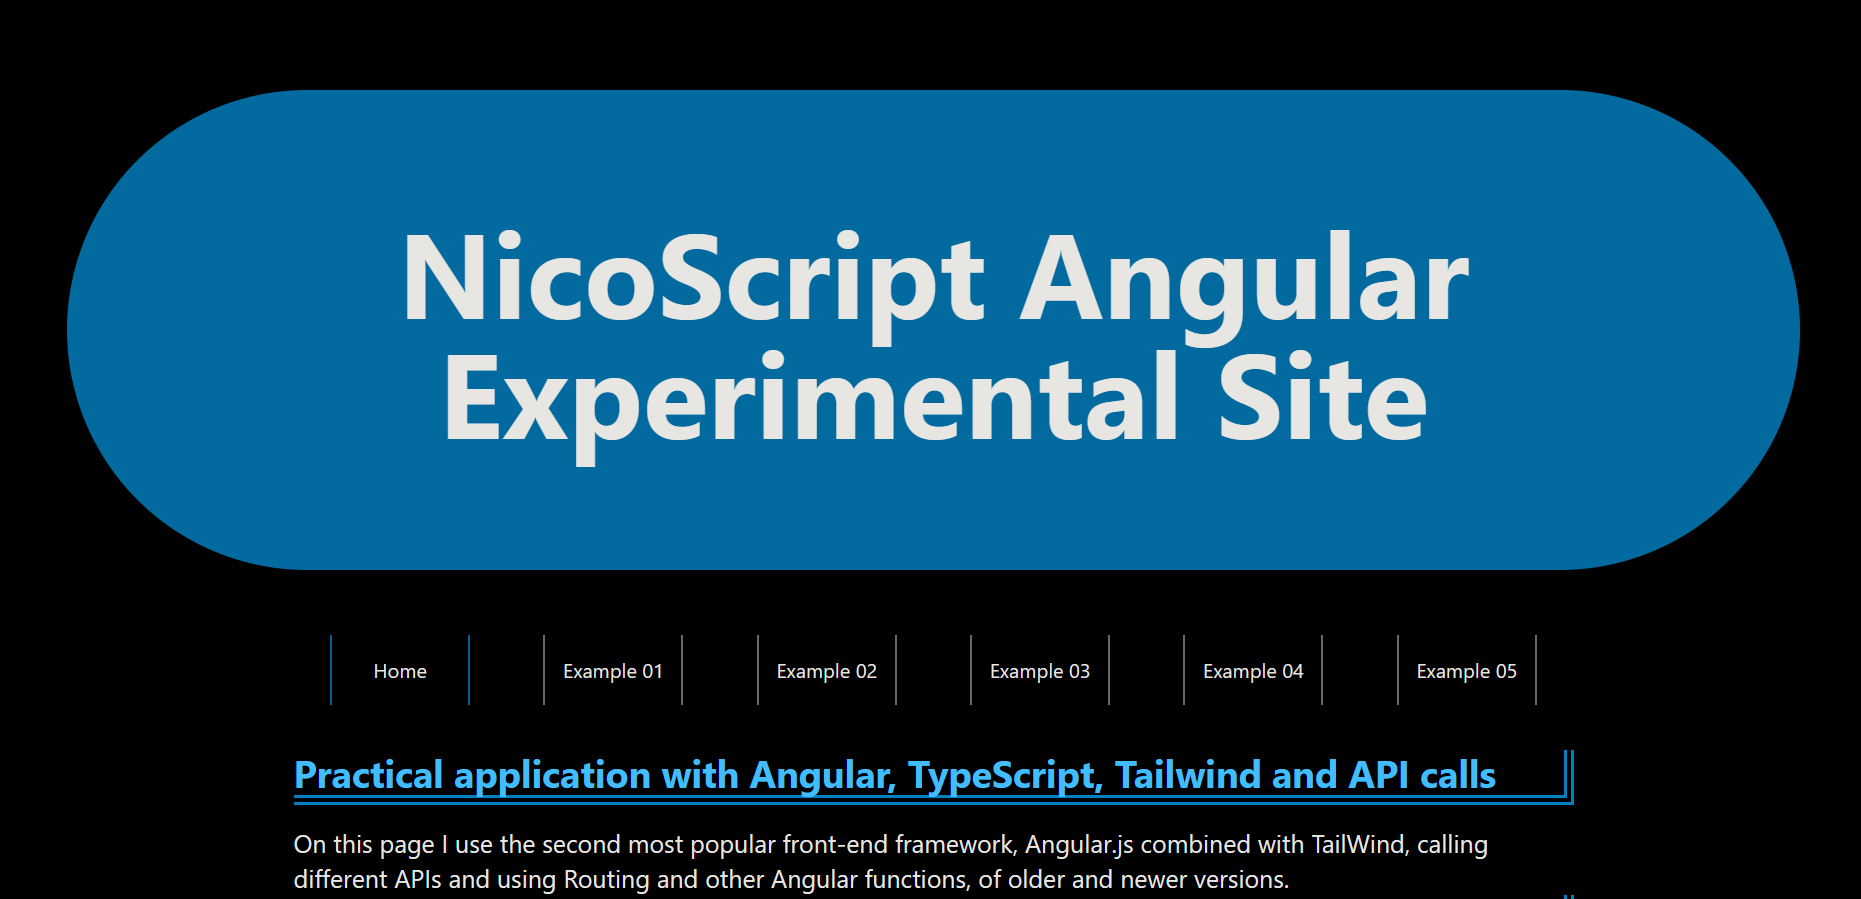
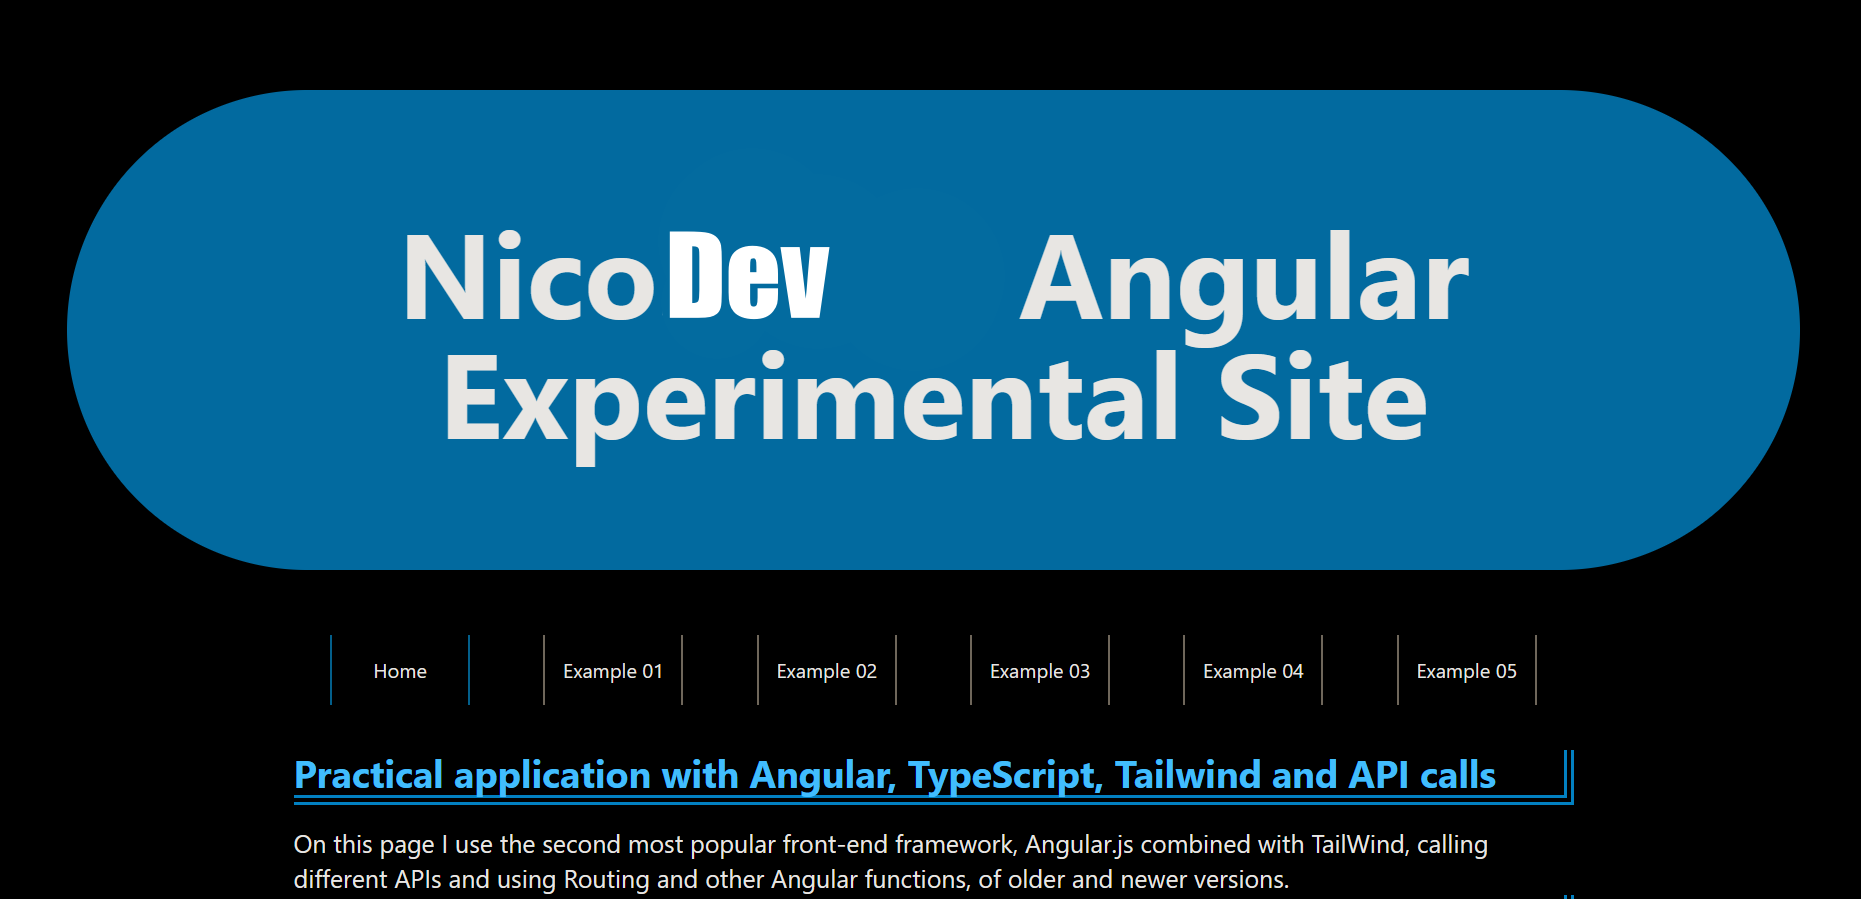
ddd

Changed region(s): [[0.3428, 0.2492, 0.5298, 0.4049]]

diff --git a/app/components/hearders/header.tsx b/app/components/hearders/header.tsx
@@ -8,7 +8,7 @@ const Header = () => {
            flex justify-around items-center"> <FaCode />
             <b>
              
-              NicoScript <br /> Oficial Site
+              NicoDev <br /> Oficial Site
               
              
             </b><FaCode />

diff --git a/app/layout.tsx b/app/layout.tsx
@@ -6,7 +6,7 @@ import './globals.css'
 const inter = Inter({ subsets: ['latin'] })
 
 export const metadata: Metadata = {
-  title: '  |  NicoScript Site',
+  title: '  |  NicoDev Site',
   description: 'Francisco Nicolas Hernandorena Oficial Site',
 }
 
